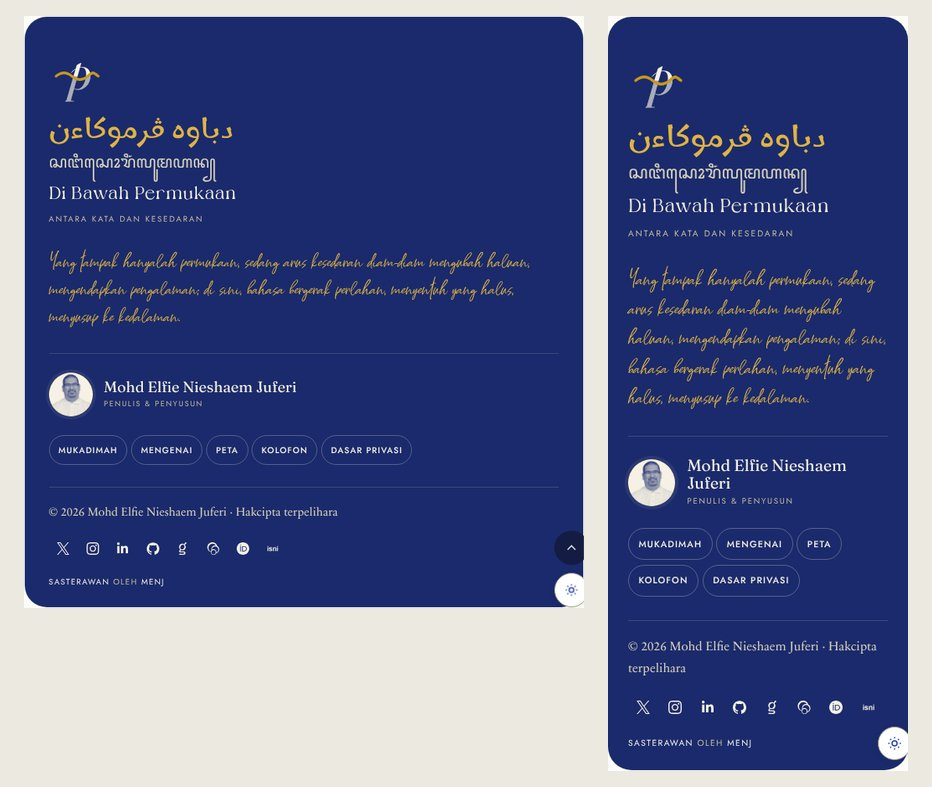
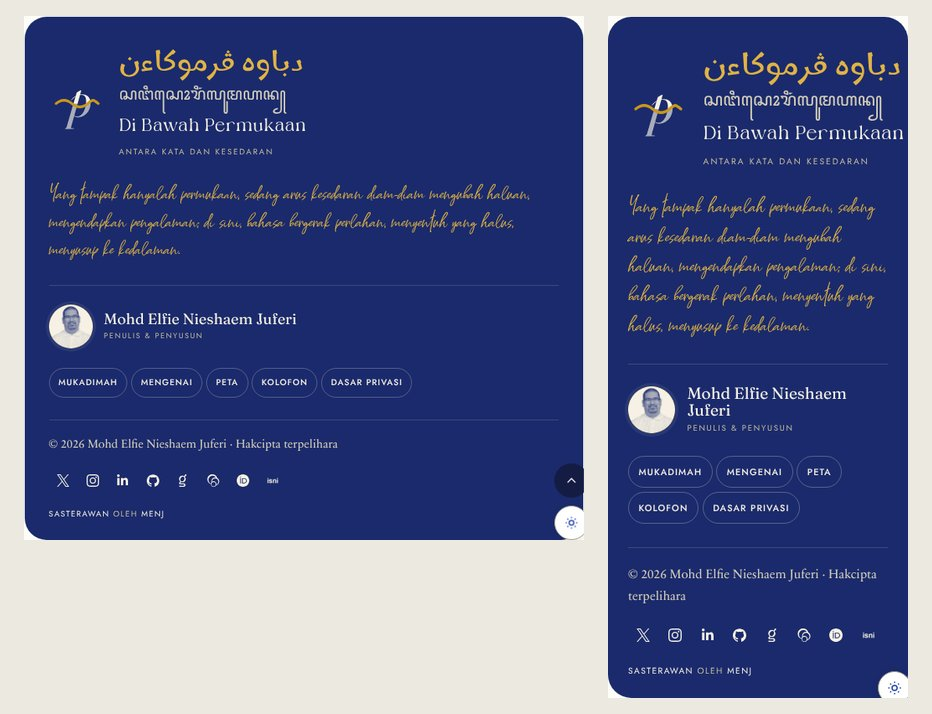
Footer: brandmark beside the identity text in the stacked footer
Claude-Session: https://claude.ai/code/session_01Er8Hpy67qX5wHknT6MnoT1

diff --git a/assets/css/frontend.css b/assets/css/frontend.css
@@ -1094,7 +1094,7 @@ body.bwp-archive-masonry .bwp-archive-list__item { width: 49%; margin-bottom: .7
     .bwp-site-footer__row { padding-top: 1.5rem; }
     /* stacked footer: the identity block (mark, titles, tagline) opens the footer; the sign-off follows */
     .bwp-site-footer__top { display: flex; flex-direction: column; align-items: flex-start; gap: 1.75rem; }
-    .bwp-site-footer__identity { order: -1; flex-direction: column; align-items: flex-start; justify-content: flex-start; gap: .9rem; }
+    .bwp-site-footer__identity { order: -1; flex-direction: row; align-items: center; justify-content: flex-start; gap: 1.1rem; }
     .bwp-site-footer__identity .bwp-site-footer__mark { width: 72px; height: 72px; }
     .bwp-site-footer__identity-text { align-items: flex-start; text-align: left; }
     .bwp-site-footer__identity .bwp-site-footer__jawi { text-align: left; }
